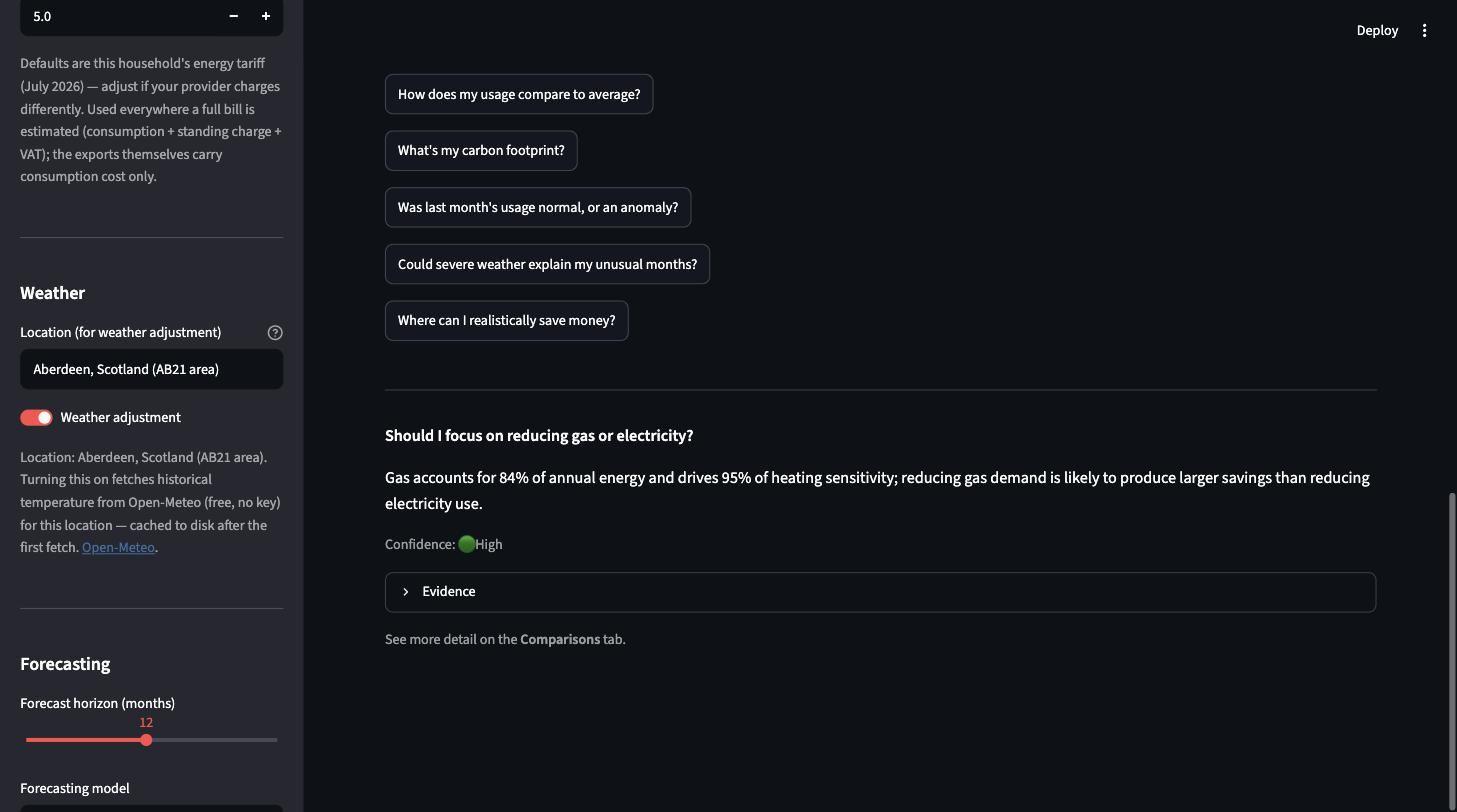
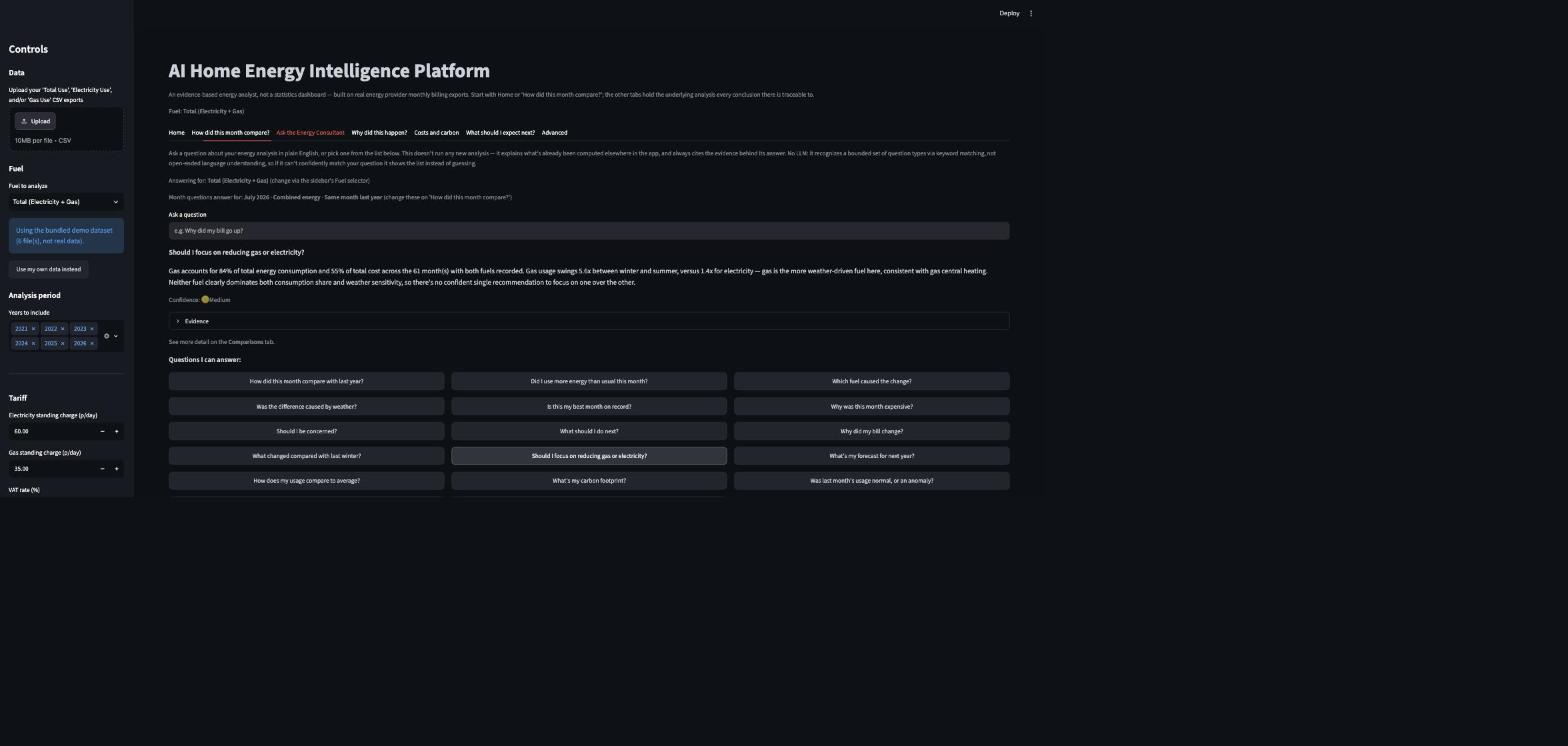
Refresh the README's static screenshots to match the current app
The four Screenshots-section images (home, month comparison, consultant,
forecast) were from July 20, before both the navigation regrouping
(consolidating six double-decker tabs into "Why did this happen?" /
"Advanced") and this session's dark SaaS restyle -- so they showed a
different tab bar and Streamlit's old default theme, inconsistent with
the new demo GIF sitting right above them. Re-captured all four against
the current running app with the bundled synthetic dataset; also fixed
month_comparison's caption, which said June but the screenshot (like the
dataset's current latest month) is July.

diff --git a/README.md b/README.md
@@ -91,7 +91,7 @@ forecast figure.
 month vs the same calendar month last year, with fuel and comparison-mode
 controls and the two-period chart.
 
-![Month comparison: June 2026 vs June 2025](docs/screenshots/month_comparison.jpg)
+![Month comparison: July 2026 vs July 2025](docs/screenshots/month_comparison.jpg)
 
 **Ask the Energy Consultant** -- pick a question or type your own; every
 answer states its confidence and cites the evidence behind it, and
